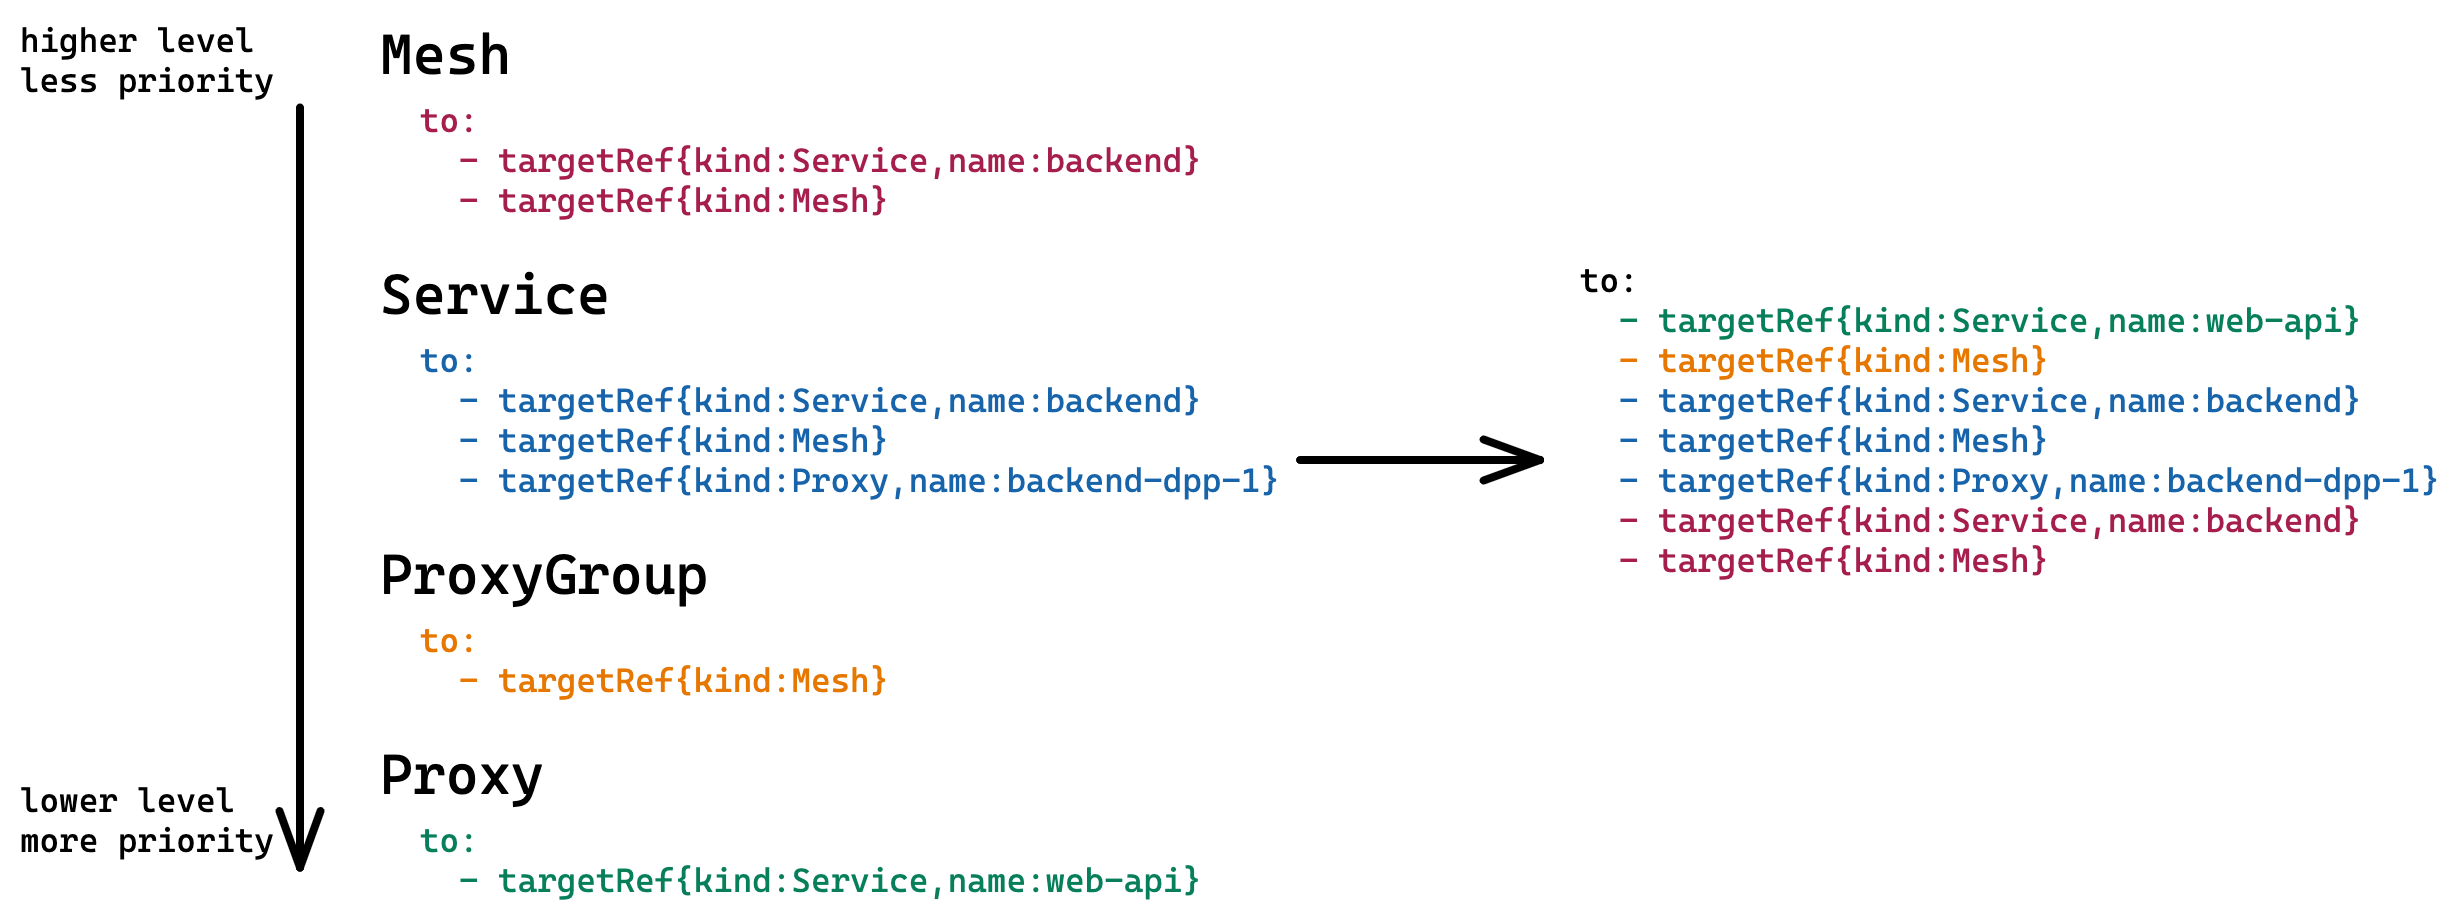
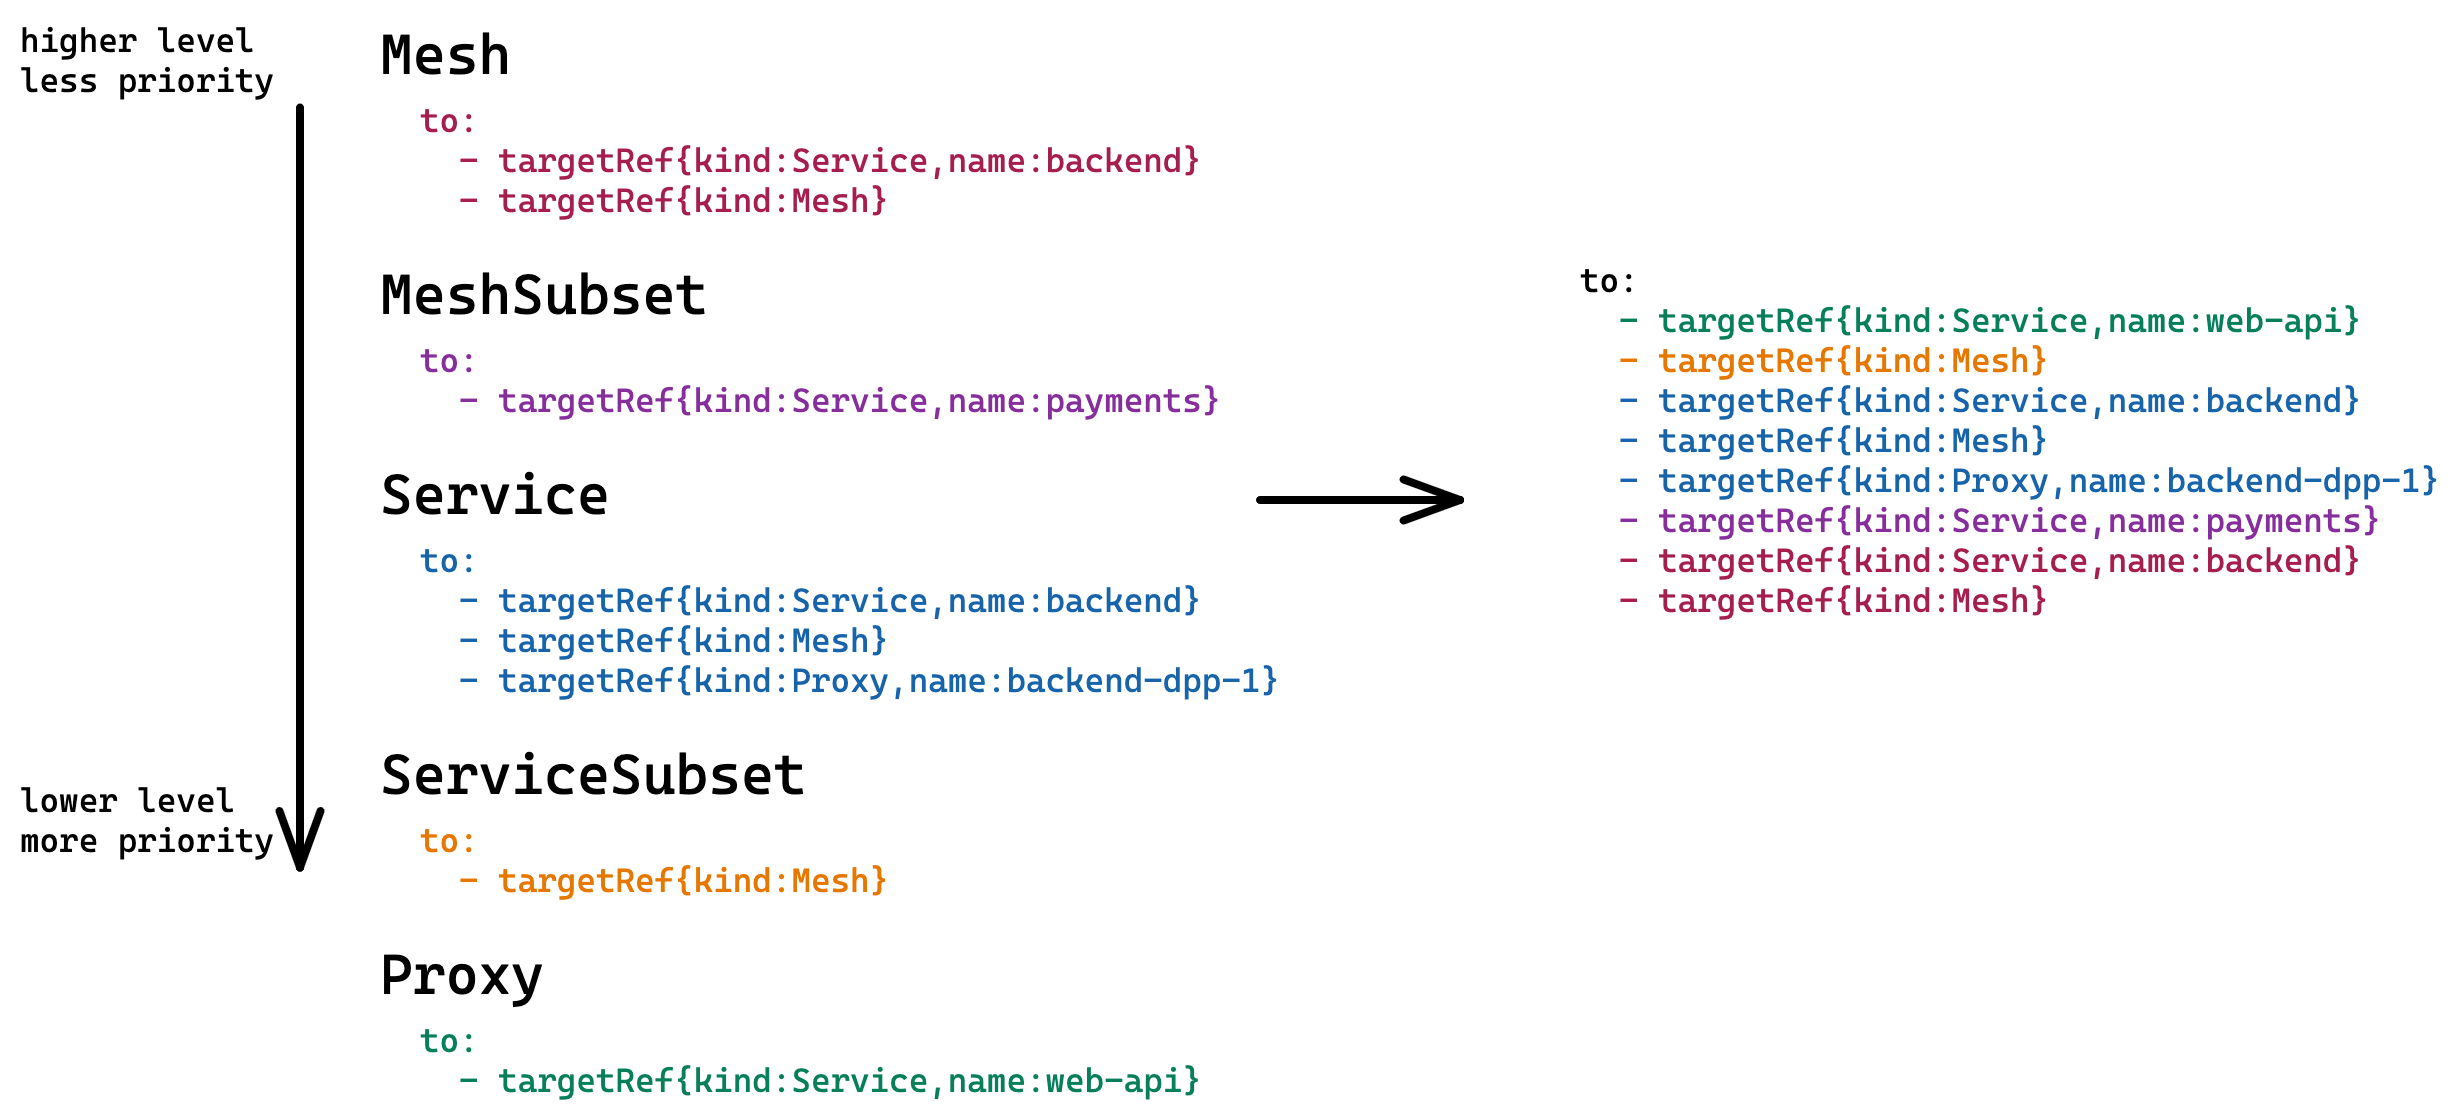
fix(kuma-cp): add MeshSubset, rename ProxyGroup to ServiceSubset

diff --git a/docs/madr/decisions/005-policy-matching.md b/docs/madr/decisions/005-policy-matching.md
@@ -48,18 +48,14 @@ Each Kuma policy has a single "TargetRef":
 ```protobuf
 message TargetRef {
   // Kind of the referenced resource
-  // +kubebuilder:validation:Enum=Mesh;Service;ProxyGroup;Proxy;MeshGatewayRoute;HTTPRoute
+  // +kubebuilder:validation:Enum=Mesh;MeshSubset;Service;ServiceSubset;Proxy;MeshGatewayRoute;HTTPRoute
   string kind = 1;
 
   // Name of the referenced resource
   string name = 2;
 
-  message Inline {
-    // Tags allows to define a ProxyGroup
-    map<string, string> tags = 1;
-  }
-  // Inline allows to define resources in place if resource 'kind' is not supported by a store  
-  Inline inline = 3;
+  // Tags are used with MeshSubset and ServiceSubset to define a subset of proxies 
+  map<string, string> tags = 3;
 }
 ```
 
@@ -79,8 +75,9 @@ spec:
 
 "TargetRef" can attach policy to different objects:
 * Mesh
+* MeshSubset
 * Service
-* ProxyGroup
+* ServiceSubset
 * Proxy
 * MeshGatewayRoute 
 * HTTPRoute
@@ -120,17 +117,15 @@ spec:
   conf:
     from:
       - targetRef:
-          kind: ProxyGroup
-          inline:
-            tags:
-              kuma.io/zone: us-east
+          kind: MeshSubset
+          tags:
+            kuma.io/zone: us-east
         action: ALLOW
       - targetRef:
-          kind: ProxyGroup
-          inline:
-            tags:
-              kuma.io/service: backend
-              version: v2
+          kind: ServiceSubset
+          name: backend
+          tags:
+            version: v2
         action: ALLOW
       - targetRef:
           kind: Mesh 
@@ -229,7 +224,7 @@ and has a configuration for selected source:
 
 ```yaml
 from:
-  - targetRef: Mesh | Service | ProxyGroup
+  - targetRef: Mesh | MeshSubset | Service | ServiceSubset
     sourceConf: ...
 ```
 
@@ -248,10 +243,9 @@ Policy can select traffic from proxies with "kuma.io/zone: us-east" tag:
 ```yaml
 from:
   - targetRef:
-      kind: ProxyGroup
-      inline:
-        tags:
-          kuma.io/zone: us-east
+      kind: MeshSubset
+      tags:
+        kuma.io/zone: us-east
     sourceConf: ... # conf for traffic coming from "us-east" zone
 ```
 
@@ -272,11 +266,10 @@ Traffic from "backend" of v2 is selected by 3 targetRefs
 ```yaml
 to:
   - targetRef: 
-      kind: ProxyGroup
-      inline:
-        tags:
-          kuma.io/service: backend
-          version: v2
+      kind: ServiceSubset
+      name: backend
+      tags:
+        version: v2
     param1: value1
   - targetRef:
       kind: Service
@@ -298,9 +291,9 @@ param2: value3 # overrides 'value4' from 'targetRef{kind:Mesh}'
 ### Overlapping
 
 As already mentioned "targetRef" attaches policy to objects:
-Mesh, Service, ProxyGroup, Proxy, MeshGatewayRoute, HTTPRoute. 
-These objects are overlapping, i.e Mesh includes many Services,
-Service includes many ProxyGroups, etc.
+Mesh, MeshSubset, Service, ServiceSubset, Proxy, MeshGatewayRoute, HTTPRoute. 
+These objects are overlapping, i.e Mesh includes many MeshSubsets, MeshSubset includes many Services,
+Service includes many ServiceSubsets, etc.
 That's why policies attached to different objects are overlapping as well.
 
 #### Sorting
@@ -526,11 +519,10 @@ targetRef:
 conf:
   from:
     - targetRef:
-        kind: ProxyGroup
-        inline:
-          tags:
-            kuma.io/service: web
-            version: v1
+        kind: ServiceSubset
+        name: web
+        tags:
+          version: v1
       action: DENY
     - targetRef:
         kind: Mesh
@@ -546,11 +538,10 @@ matched for "backend" proxy:
 ```yaml
 from:
   - targetRef: # from backend-permissions
-      kind: ProxyGroup
-      inline:
-        tags:
-          kuma.io/service: web
-          version: v1
+      kind: ServiceSubset
+      name: web
+      tags:
+        version: v1
     action: DENY
   - targetRef: # from backend-permissions
       kind: Mesh
@@ -575,11 +566,10 @@ Select "from" sections that target "web" with "v1":
 ```yaml
 from:
   - targetRef: # from backend-permissions
-      kind: ProxyGroup
-      inline:
-        tags:
-          kuma.io/service: web
-          version: v1
+      kind: ServiceSubset
+      name: web
+      tags:
+        version: v1
     action: DENY
   - targetRef: # from backend-permissions
       kind: Mesh
